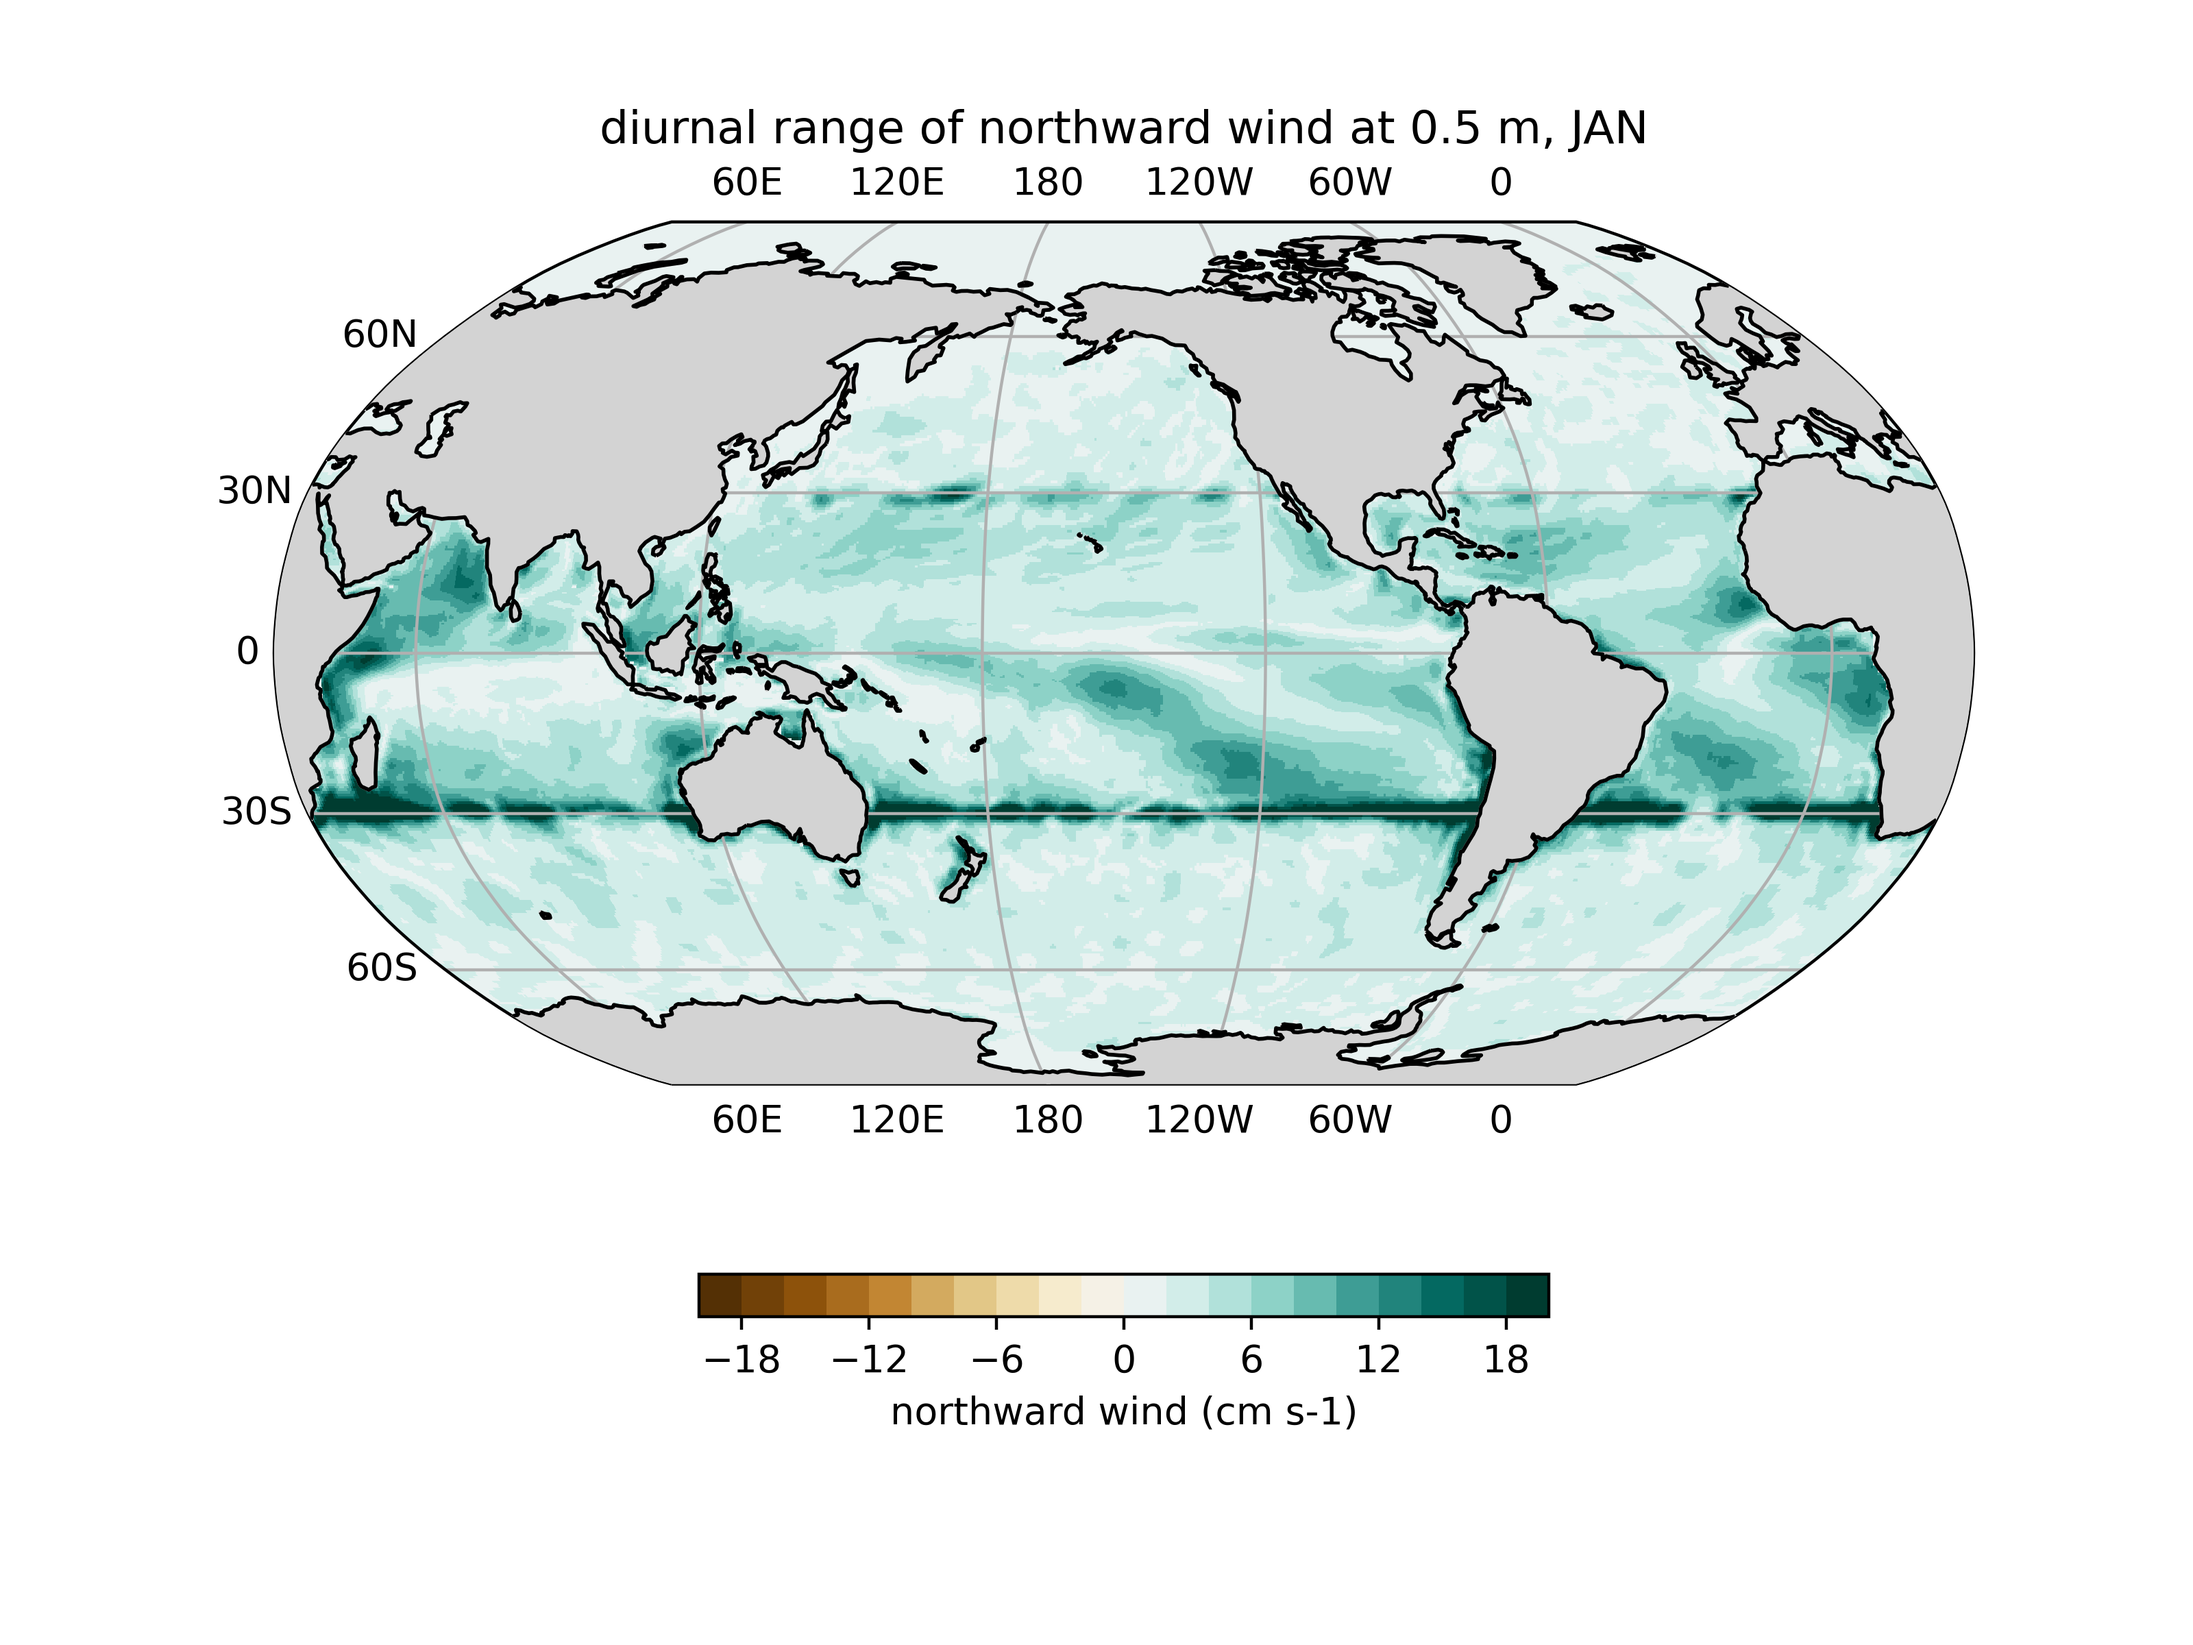
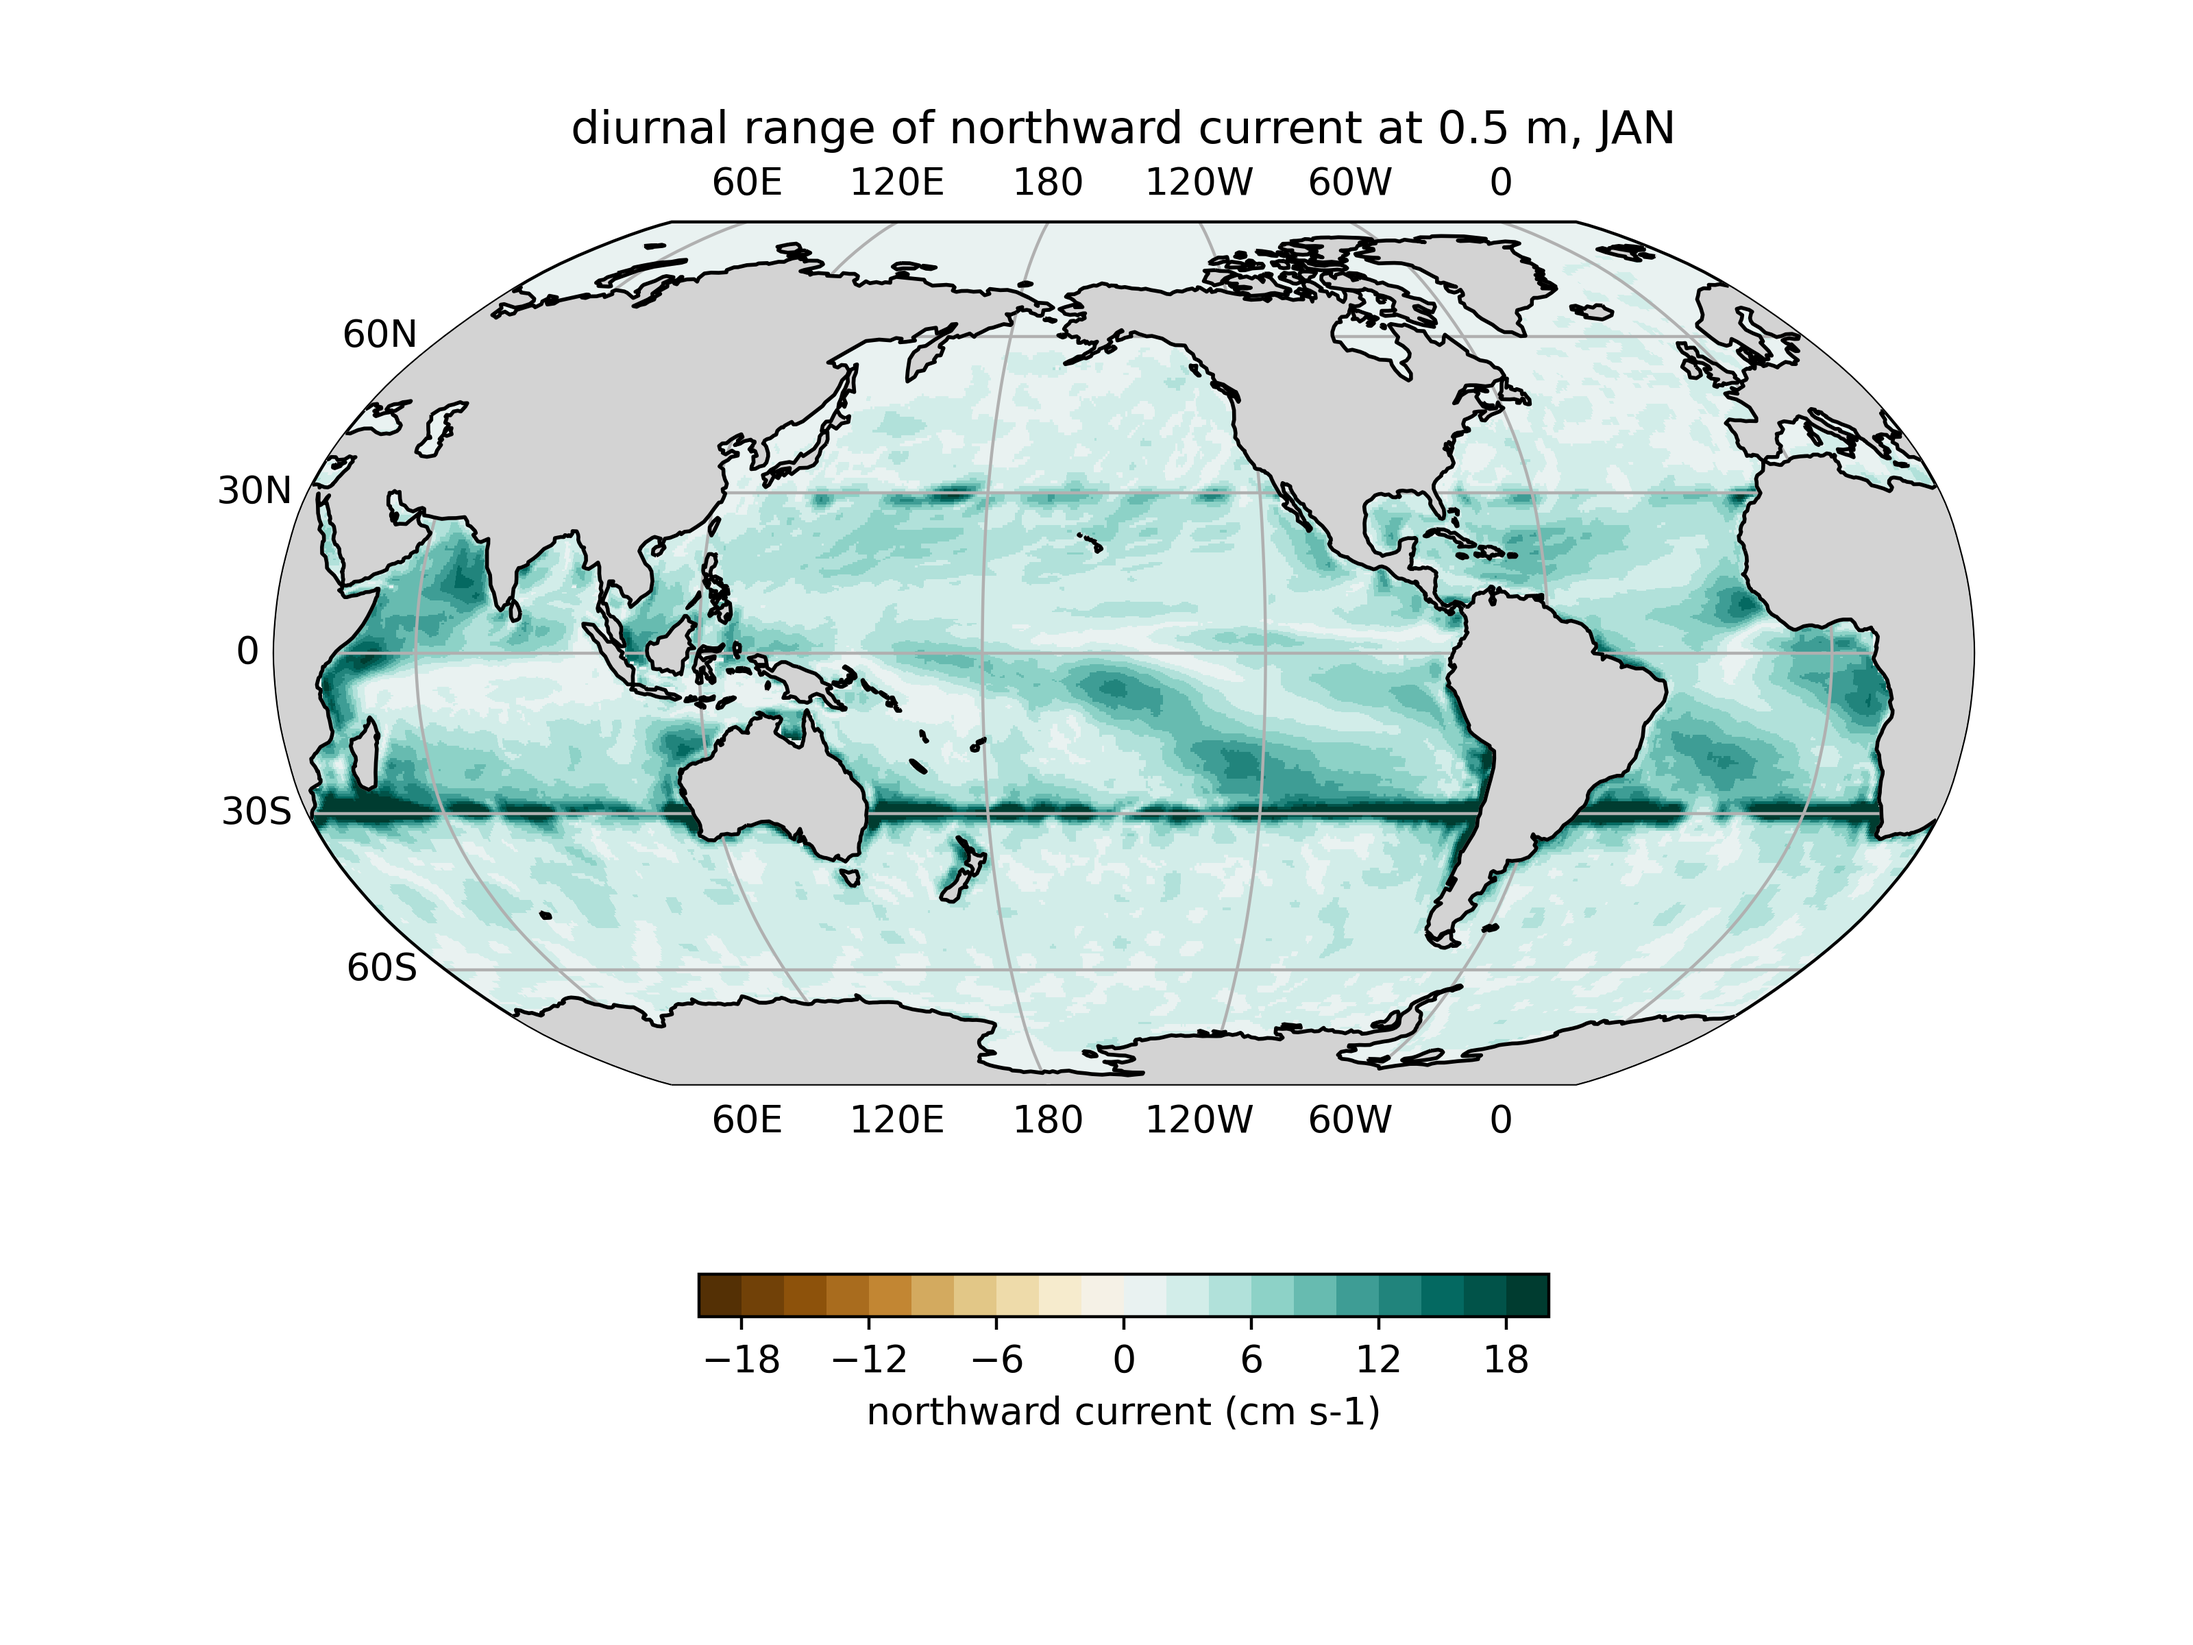
Fixes variable name for plot title.

Changed region(s): [[0.25, 0.0625, 0.7812, 0.0938], [0.4062, 0.8438, 0.625, 0.875]]

diff --git a/diurnal_cycle/analysis/current_check_maps.py b/diurnal_cycle/analysis/current_check_maps.py
@@ -167,7 +167,7 @@ def plot_dets(vn, att):
         'v':{
 	    'latname':'geolat_c',
 	    'lonname':'geolon_c',
-	    'plotname':'northward wind',
+	    'plotname':'northward current',
 	    'min':-20.0, #-30.0,
 	    'max':20.0,
 	    'step':2.0, #5.0,
